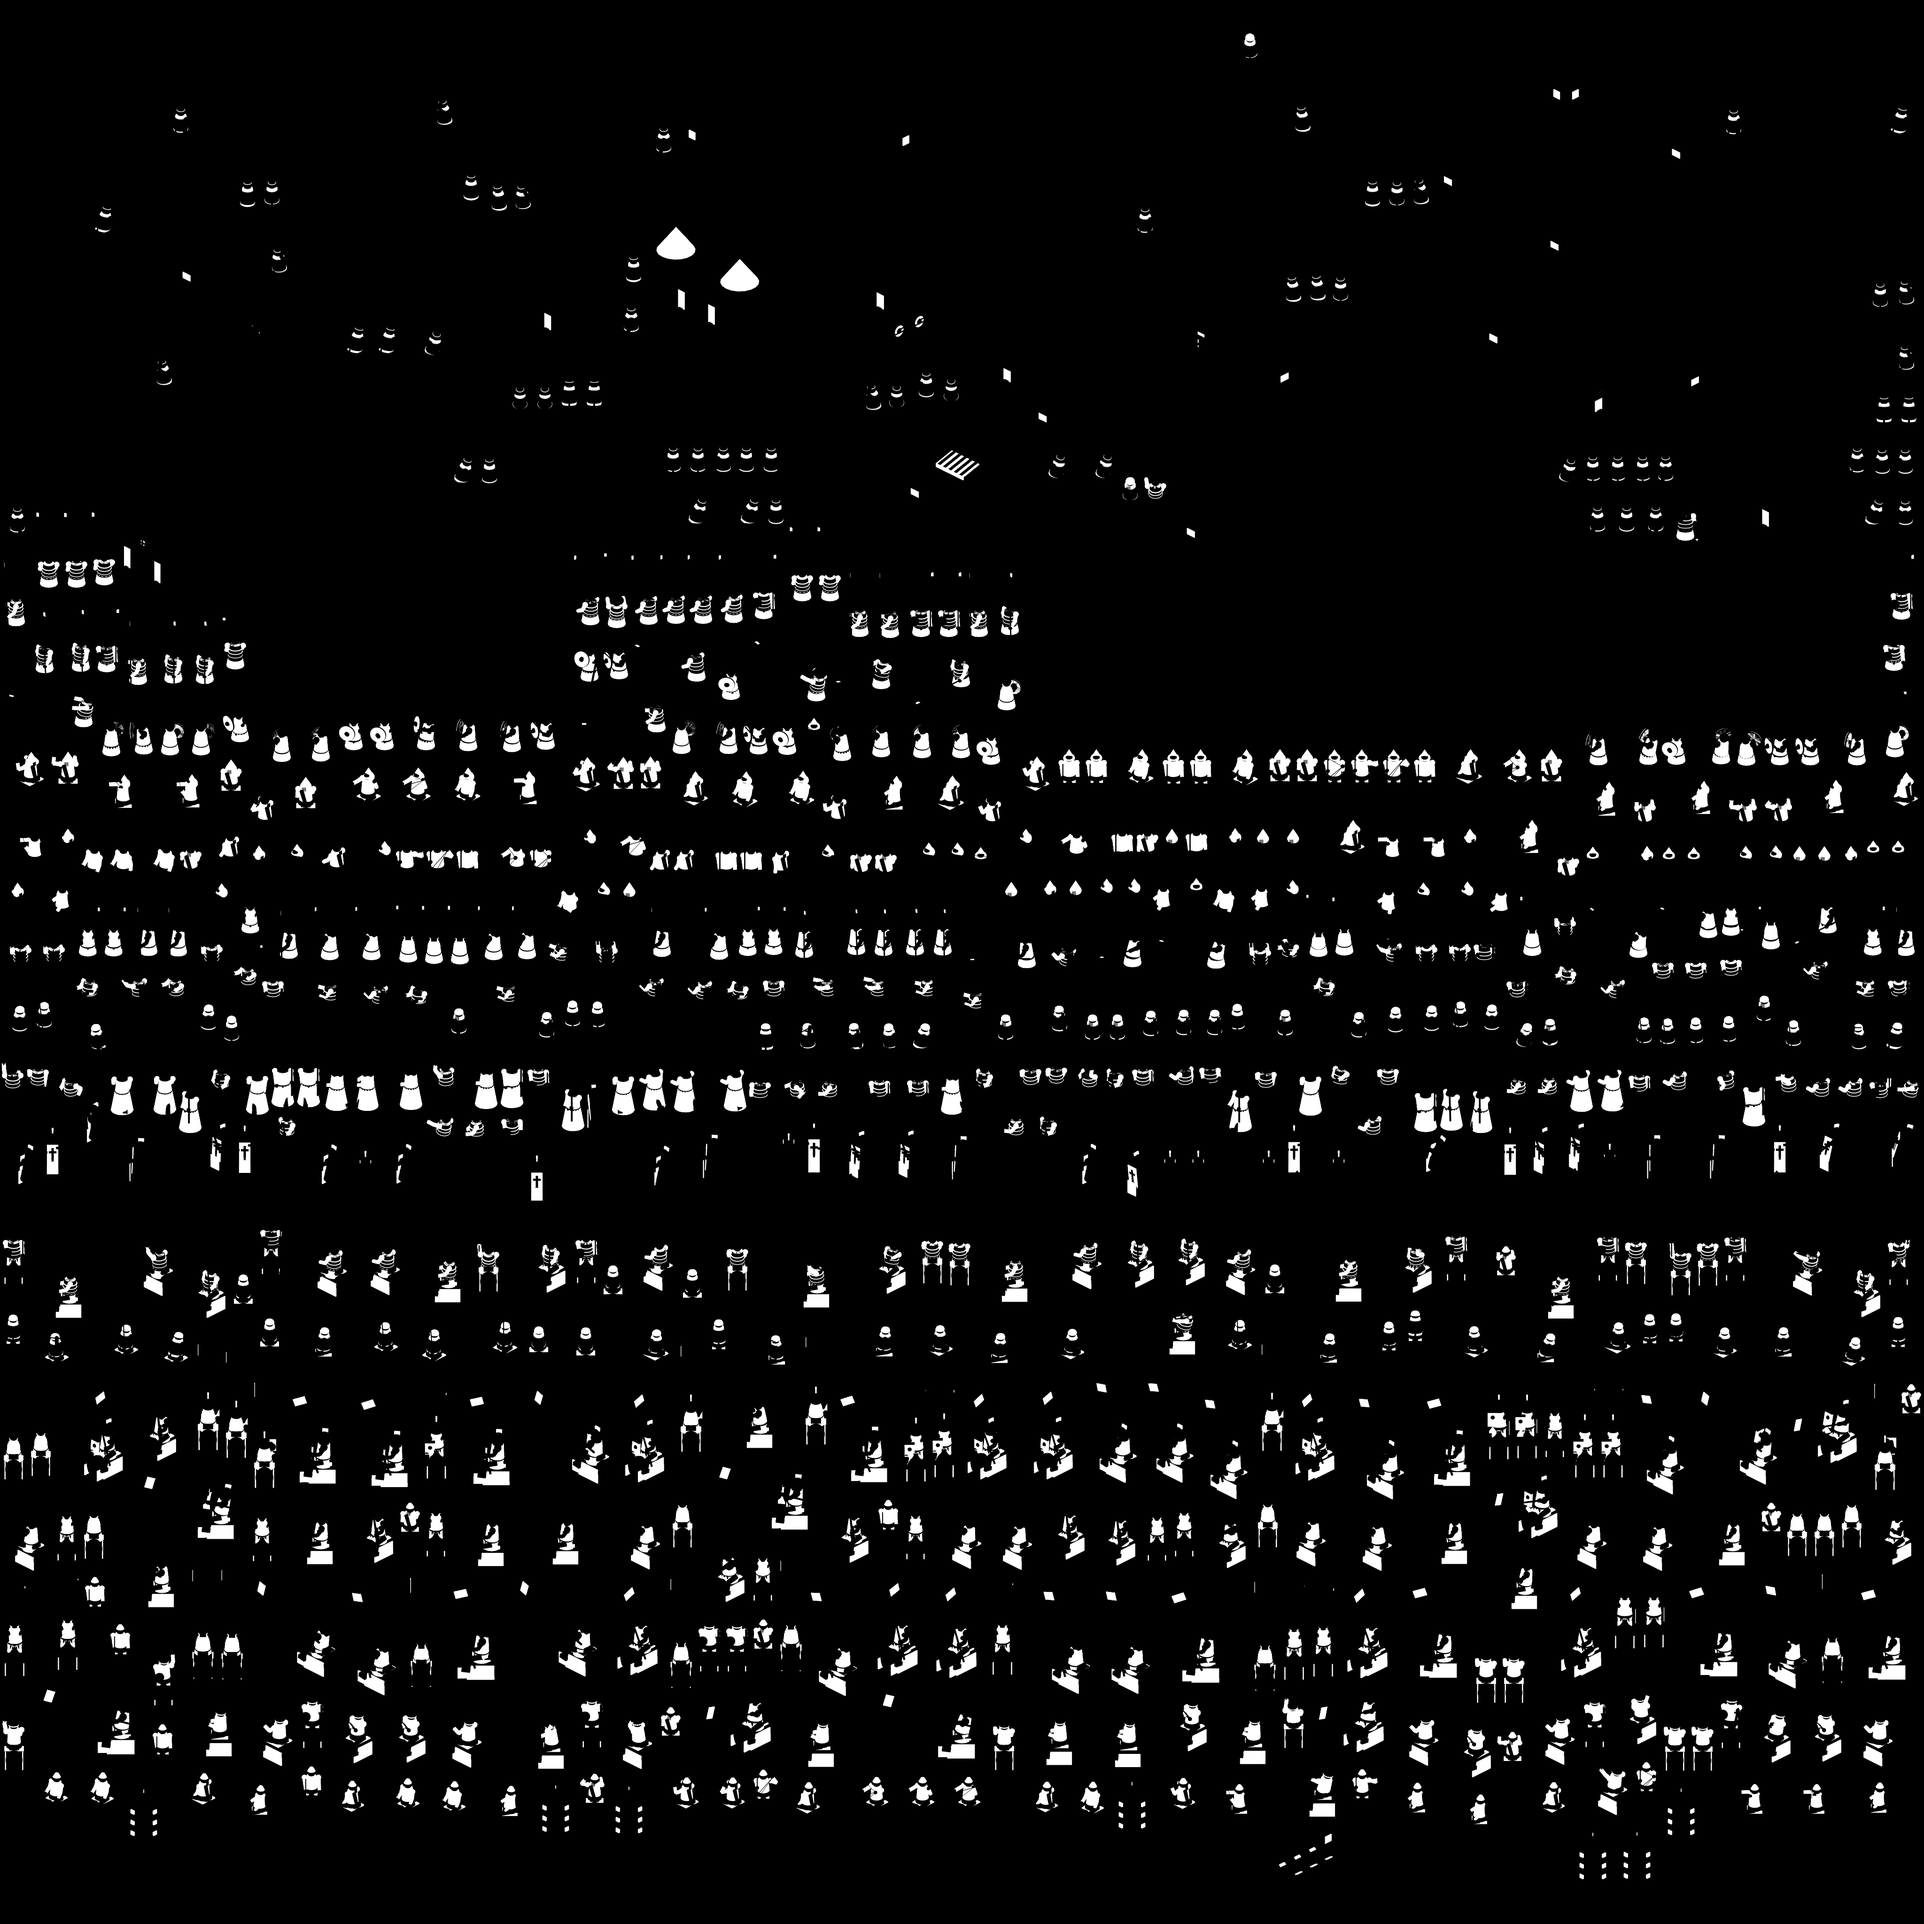
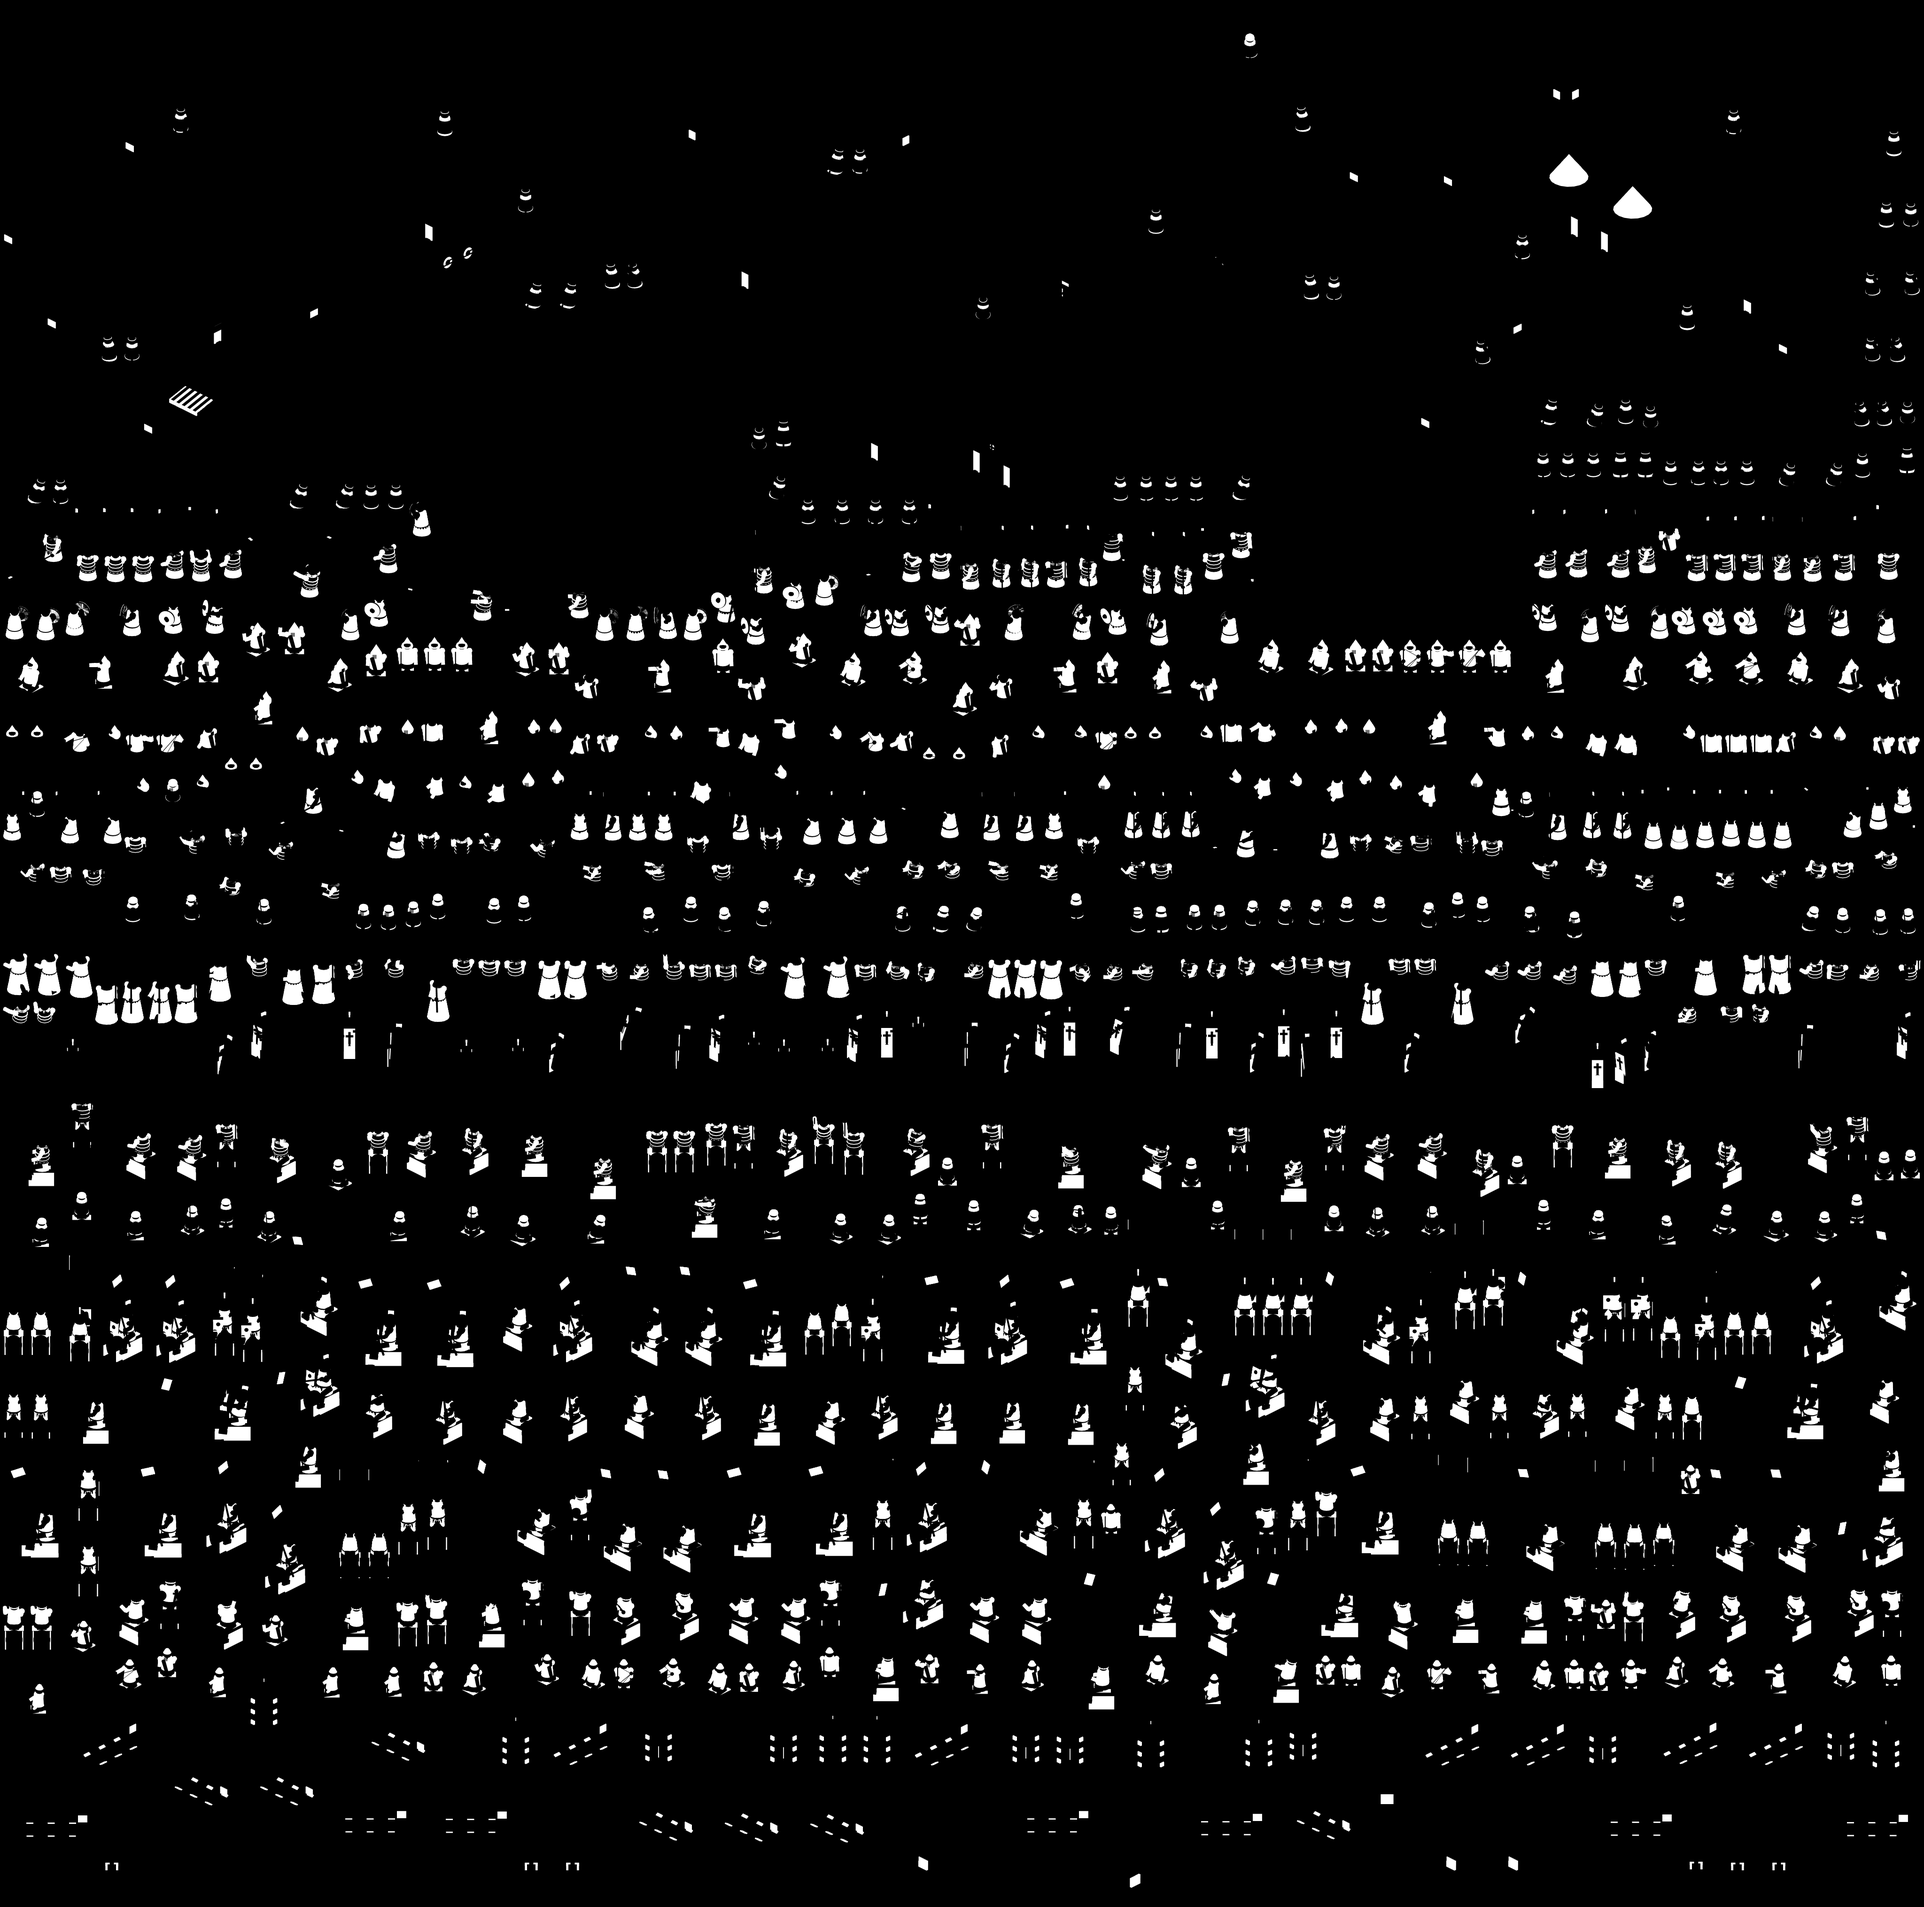
Isométrico: toque de edificios por píxeles del sprite (máscara en el atlas), pruebas de interfaz adaptadas a la proyección, atlas sin sprites de prueba [skip ci]
Claude-Session: https://claude.ai/code/session_01Y66RPhomzJL5dsRZZqiaQv

diff --git a/tools/iso/iso_atlas.py b/tools/iso/iso_atlas.py
@@ -25,6 +25,8 @@ UNIT_DIR = re.compile(r"^[a-z_]+_([0-7])_[a-z0-9]+(_sh|_m)?$")
 BAKED_DIRS = {"1", "2", "3", "4", "5"}
 UNIT_CATS = set(CATS[CATS.index("aldeano"):CATS.index("ariete")])
 ICON = 96
+HIT_CELL = 4          # lado (px de sprite) de las celdas de la máscara de toque de los edificios
+HIT_CATS = set(CATS[CATS.index("casa"):CATS.index("aldeano")])
 
 def skip(name):
     m = UNIT_DIR.match(name)
@@ -72,6 +74,22 @@ def make_icons(src, dst):
     msheet.save(os.path.join(dst, "icons_m.png"), optimize=True)
     json.dump(rects, open(os.path.join(dst, "icons.json"), "w"))
     print("iconos:", len(rects))
+
+def hit_mask(im):
+    """Máscara de toque: una celda de HIT_CELL x HIT_CELL px vale 1 si algún píxel es opaco. Devuelve [ancho, alto, hex]
+    (filas de bits, de izquierda a derecha en el bit más alto, rellenas hasta un byte)."""
+    h, w = im.shape[:2]
+    cw, ch = (w + HIT_CELL - 1) // HIT_CELL, (h + HIT_CELL - 1) // HIT_CELL
+    a = np.zeros((ch * HIT_CELL, cw * HIT_CELL), np.uint8)
+    a[:h, :w] = im[..., 3]
+    cells = (a.reshape(ch, HIT_CELL, cw, HIT_CELL).max(axis=(1, 3)) > 40)
+    rowb = (cw + 7) // 8
+    out = bytearray()
+    for r in range(ch):
+        row = np.zeros(rowb * 8, np.uint8)
+        row[:cw] = cells[r]
+        out += np.packbits(row).tobytes()
+    return [cw, ch, out.hex()]
 
 def cat_of(name):
     base = name[:-3] if name.endswith("_sh") else name
@@ -146,6 +164,7 @@ def main():
     pages = [(np.zeros((SHEET, SHEET, 4), np.uint8), np.zeros((SHEET, SHEET), np.uint8))]
     packers = [MaxRects(SHEET, SHEET)]
     placed = {}
+    hits = {}
     for n in names:
         im = np.asarray(Image.open(os.path.join(src, n + ".png")).convert("RGBA"))
         h, w = im.shape[:2]
@@ -163,6 +182,8 @@ def main():
             pages[-1][1][py:py + h, px:px + w] = mk
         a = anchors[n]
         placed[n] = [len(pages) - 1, px, py, w, h, a[0], a[1]]
+        if not n.endswith("_sh") and n.split("_")[0] in HIT_CATS:
+            hits[n] = hit_mask(im)
     sheets = []
     for i, (col, mk) in enumerate(pages):
         # recorta el alto sobrante de la hoja (la textura no tiene por qué ser cuadrada)
@@ -173,7 +194,7 @@ def main():
         Image.fromarray(mk[:hh], "L").save(os.path.join(dst, "mask_%d.png" % i), optimize=True)
         sheets.append(["atlas_%d.png" % i, "mask_%d.png" % i])
         print("hoja %d: %dx%d" % (i, SHEET, hh))
-    json.dump({"sheets": sheets, "sprites": placed}, open(os.path.join(dst, "atlas.json"), "w"))
+    json.dump({"sheets": sheets, "sprites": placed, "hit": hits}, open(os.path.join(dst, "atlas.json"), "w"))
     make_icons(src, dst)
     tot = sum(os.path.getsize(os.path.join(dst, f)) for s in sheets for f in s)
     print("sprites:", len(placed), "hojas:", len(sheets), "peso PNG: %.2f MB" % (tot / 1e6))
